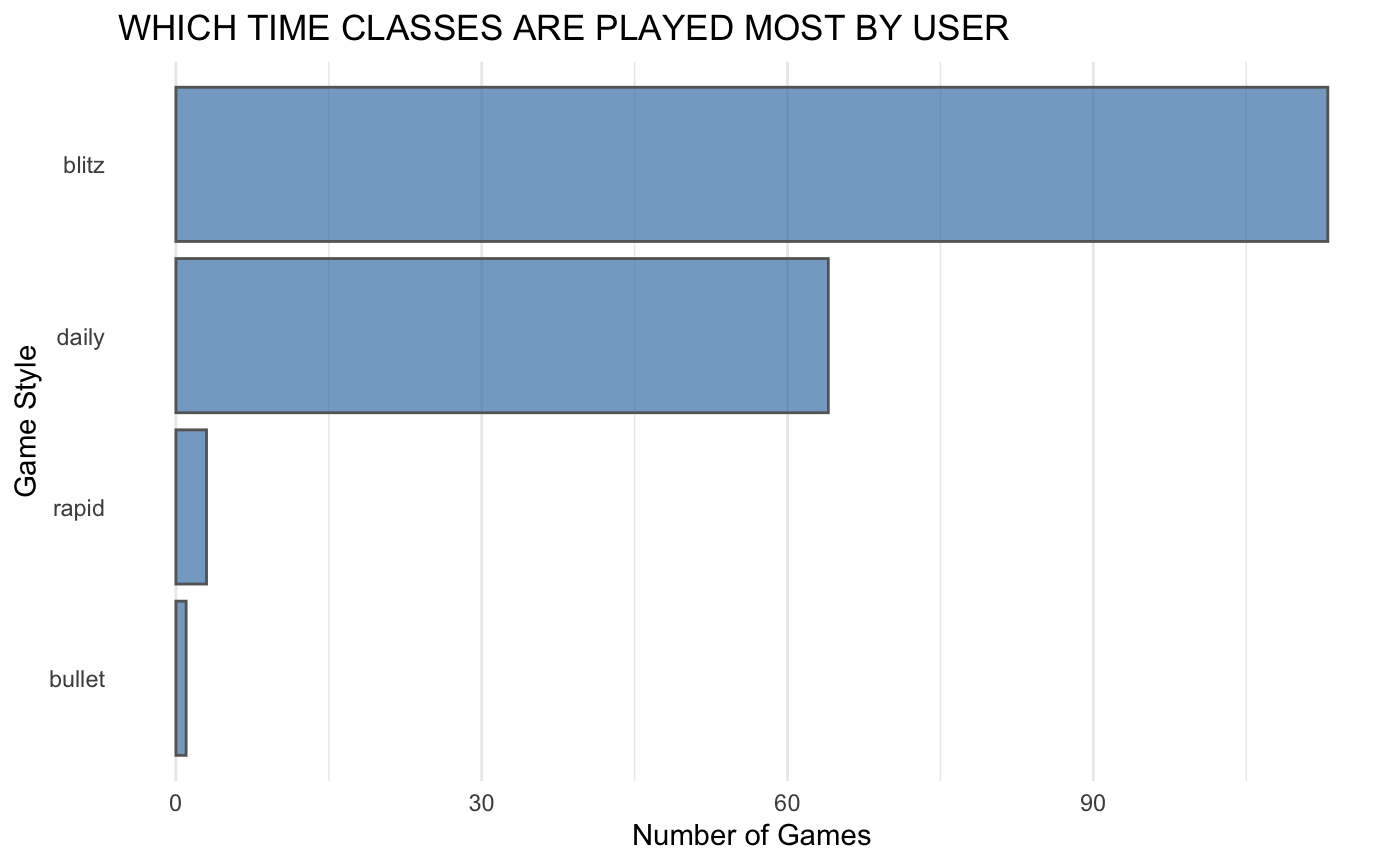
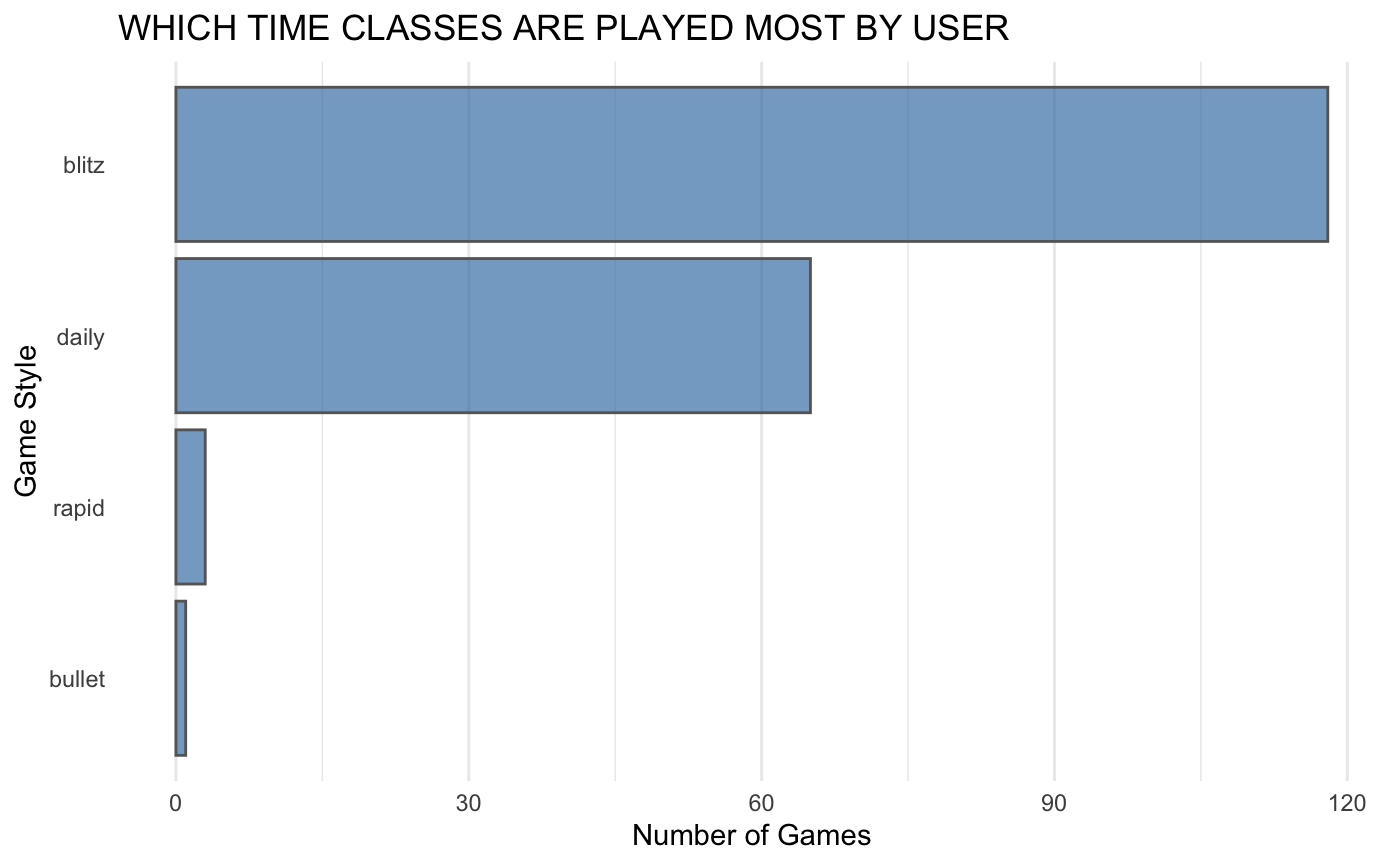
resolving issue #8

diff --git a/docs/articles/using_chessR_package.html b/docs/articles/using_chessR_package.html
@@ -98,7 +98,7 @@
       <h1 data-toc-skip>Using the chessR Package</h1>
                         <h4 class="author">Jason Zivkovic</h4>
             
-            <h4 class="date">2020-05-15</h4>
+            <h4 class="date">2020-05-21</h4>
       
       <small class="dont-index">Source: <a href="https://github.com/JaseZiv/chessR/blob/master/vignettes/using_chessR_package.Rmd"><code>vignettes/using_chessR_package.Rmd</code></a></small>
       <div class="hidden name"><code>using_chessR_package.Rmd</code></div>
@@ -142,7 +142,7 @@
 <span class="no">chessdotcom_game_data</span> <span class="kw">&lt;-</span> <span class="fu"><a href="../reference/get_raw_chessdotcom.html">get_raw_chessdotcom</a></span>(<span class="st">"JaseZiv"</span>)
 <span class="co">#&gt; Extracting  JaseZiv  Data, please wait</span>
 <span class="fu">glimpse</span>(<span class="no">chessdotcom_game_data</span>)
-<span class="co">#&gt; Observations: 181</span>
+<span class="co">#&gt; Observations: 187</span>
 <span class="co">#&gt; Variables: 25</span>
 <span class="co">#&gt; $ GameRules       &lt;chr&gt; "chess", "chess", "chess", "chess", "chess", "chess",…</span>
 <span class="co">#&gt; $ TimeClass       &lt;chr&gt; "blitz", "blitz", "blitz", "blitz", "blitz", "blitz",…</span>
@@ -206,7 +206,7 @@
 <span class="co">#&gt; Extracting  JaseZiv  Data, please wait</span>
 <span class="co">#&gt; Data extracted</span></pre></body></html></div>
 <div class="sourceCode" id="cb5"><html><body><pre class="r"><span class="fu">glimpse</span>(<span class="no">chess_analysis_single</span>)
-<span class="co">#&gt; Observations: 180</span>
+<span class="co">#&gt; Observations: 186</span>
 <span class="co">#&gt; Variables: 36</span>
 <span class="co">#&gt; $ rules           &lt;chr&gt; "chess", "chess", "chess", "chess", "chess", "chess",…</span>
 <span class="co">#&gt; $ time_class      &lt;chr&gt; "blitz", "blitz", "blitz", "blitz", "blitz", "blitz",…</span>
@@ -265,10 +265,10 @@
 <span class="co">#&gt; $ player_id   &lt;int&gt; 10402, 7848044, 4147249, 10506874, 4767295, 2810922, 4107…</span>
 <span class="co">#&gt; $ url         &lt;chr&gt; "https://www.chess.com/member/VPA", "https://www.chess.co…</span>
 <span class="co">#&gt; $ username    &lt;chr&gt; "vpa", "francisbegbie", "mizant", "olomi007", "xquse", "p…</span>
-<span class="co">#&gt; $ score       &lt;int&gt; 2629, 2582, 2558, 2521, 2519, 2503, 2483, 2483, 2481, 247…</span>
+<span class="co">#&gt; $ score       &lt;int&gt; 2629, 2582, 2558, 2521, 2520, 2503, 2483, 2483, 2477, 247…</span>
 <span class="co">#&gt; $ rank        &lt;int&gt; 1, 2, 3, 4, 5, 6, 7, 8, 9, 10, 11, 12, 13, 14, 15, 16, 17…</span>
 <span class="co">#&gt; $ country     &lt;chr&gt; "https://api.chess.com/pub/country/IN", "https://api.ches…</span>
-<span class="co">#&gt; $ title       &lt;chr&gt; "FM", "FM", "FM", "GM", NA, "NM", "FM", NA, "NM", NA, "FM…</span>
+<span class="co">#&gt; $ title       &lt;chr&gt; "FM", "FM", "FM", "GM", NA, "NM", "FM", NA, NA, "NM", "FM…</span>
 <span class="co">#&gt; $ name        &lt;chr&gt; "Viraf Avari", "Andy Mack", "Aleksandar Randjelovic", "Al…</span>
 <span class="co">#&gt; $ status      &lt;chr&gt; "premium", "premium", "premium", "premium", "premium", "p…</span>
 <span class="co">#&gt; $ avatar      &lt;chr&gt; "https://images.chesscomfiles.com/uploads/v1/user/10402.3…</span>
@@ -288,10 +288,10 @@
 <span class="co">#&gt; Observations: 10</span>
 <span class="co">#&gt; Variables: 6</span>
 <span class="co">#&gt; $ Rank         &lt;int&gt; 1, 2, 3, 4, 5, 6, 7, 8, 9, 10</span>
-<span class="co">#&gt; $ Title        &lt;chr&gt; "GM", NA, "GM", NA, "GM", NA, "GM", NA, "GM", "GM"</span>
-<span class="co">#&gt; $ Username     &lt;chr&gt; "Konevlad", "HansSchmidt", "Azzaro25", "MikeGScarn", "Wa…</span>
-<span class="co">#&gt; $ Rating       &lt;int&gt; 2922, 2900, 2865, 2846, 2839, 2827, 2827, 2824, 2817, 28…</span>
-<span class="co">#&gt; $ Progress     &lt;int&gt; 14, 30, 19, 14, 24, 31, 17, 20, 22, 17</span>
+<span class="co">#&gt; $ Title        &lt;chr&gt; "GM", "GM", "GM", NA, "GM", NA, "GM", "GM", "GM", NA</span>
+<span class="co">#&gt; $ Username     &lt;chr&gt; "Konevlad", "Liem_Chess", "Zhigalko_Sergei", "MikeGScarn…</span>
+<span class="co">#&gt; $ Rating       &lt;int&gt; 2927, 2902, 2837, 2835, 2822, 2822, 2816, 2799, 2797, 27…</span>
+<span class="co">#&gt; $ Progress     &lt;int&gt; 1, 9, 8, 11, 7, 14, 17, 12, NA, 4</span>
 <span class="co">#&gt; $ SpeedVariant &lt;chr&gt; "blitz", "blitz", "blitz", "blitz", "blitz", "blitz", "b…</span></pre></body></html></div>
 </div>
 </div>
